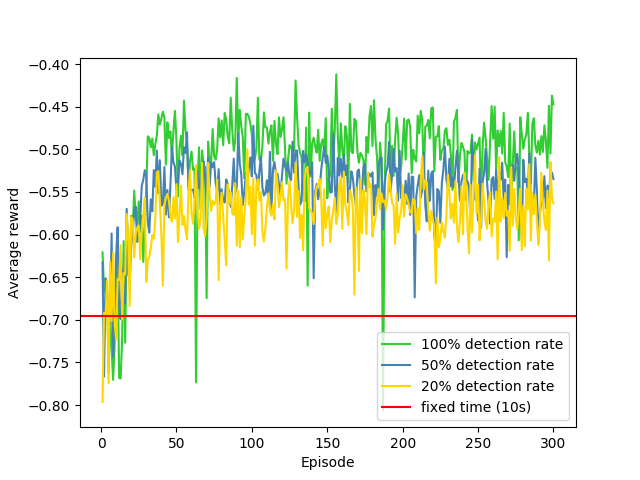
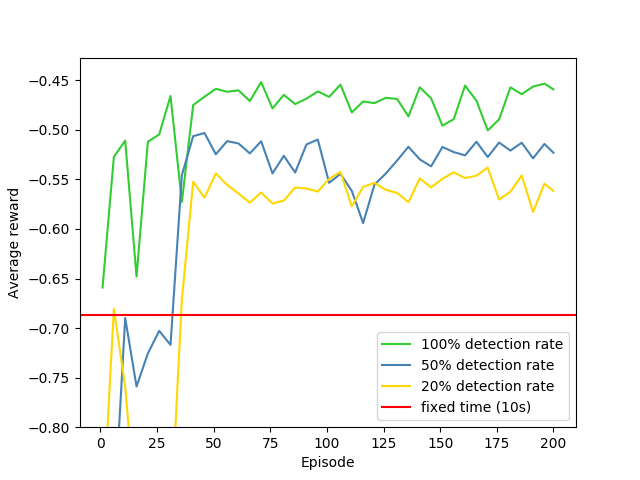
plotting changes

diff --git a/plot.py b/plot.py
@@ -1,6 +1,7 @@
 import matplotlib.pyplot as plt
 import pickle
 import tensorflow as tf
+import numpy as np
 
 if __name__ == "__main__":
     '''baseline_name = "hor1over30_ver1over60"
@@ -35,66 +36,122 @@ if __name__ == "__main__":
     waiting_times1 = []
     waiting_times2 = []
     waiting_times3 = []
+    rewards1_dev = []
+    rewards2_dev = []
+    rewards3_dev = []
+    waiting_times1_dev = []
+    waiting_times2_dev = []
+    waiting_times3_dev = []
     baseline_r = 0
     baseline_w = 0
+    baseline_r_dev = 0
+    baseline_w_dev = 0
+
+    figure_name = "horizontal_boltz_30_60"
 
     # 100% detection rate
     for event in tf.compat.v1.train.summary_iterator(
-            "runs/model_100_low/events.out.tfevents.1585155365.PC-CYRIL-LINUX.6284.0"):
+            "runs/model_boltz_hor_30_60_100/events.out.tfevents.1585431026.alan-compute-04.12904.0"):
         for value in event.summary.value:
             if value.tag == "Average_reward":
                 episodes.append(event.step)
                 rewards1.append(value.simple_value)
             elif value.tag == "Average_waiting_time":
                 waiting_times1.append(value.simple_value)
+            elif value.tag == "Reward_standard_deviation":
+                rewards1_dev.append(value.simple_value)
+            elif value.tag == "Waiting_time_standard_deviation":
+                waiting_times1_dev.append(value.simple_value)
 
     # 50% detection rate
     for event in tf.compat.v1.train.summary_iterator(
-            "runs/model_50_low/events.out.tfevents.1585168598.alan-compute-08.217244.0"):
+            "runs/model_boltz_hor_30_60_50/events.out.tfevents.1585458896.alan-compute-02.3965.0"):
         for value in event.summary.value:
             if value.tag == "Average_reward":
                 rewards2.append(value.simple_value)
             elif value.tag == "Average_waiting_time":
                 waiting_times2.append(value.simple_value)
+            elif value.tag == "Reward_standard_deviation":
+                rewards2_dev.append(value.simple_value)
+            elif value.tag == "Waiting_time_standard_deviation":
+                waiting_times2_dev.append(value.simple_value)
 
     # 20% detection rate
     for event in tf.compat.v1.train.summary_iterator(
-            "runs/model_20_low/events.out.tfevents.1585168567.alan-compute-07.215803.0"):
+            "runs/model_boltz_hor_30_60_20/events.out.tfevents.1585458910.alan-compute-02.4000.0"):
         for value in event.summary.value:
             if value.tag == "Average_reward":
                 rewards3.append(value.simple_value)
             elif value.tag == "Average_waiting_time":
                 waiting_times3.append(value.simple_value)
+            elif value.tag == "Reward_standard_deviation":
+                rewards3_dev.append(value.simple_value)
+            elif value.tag == "Waiting_time_standard_deviation":
+                waiting_times3_dev.append(value.simple_value)
 
     # baseline
     for event in tf.compat.v1.train.summary_iterator(
-            "runs/uniform_1over60_baseline/events.out.tfevents.1585171350.PC-CYRIL-LINUX.11892.0"):
+            "runs/hor1over30_ver1over60_baseline/events.out.tfevents.1585228860.PC-CYRIL-LINUX.25968.0"):
         for value in event.summary.value:
             if value.tag == "Average_reward":
                 baseline_r = value.simple_value
             elif value.tag == "Average_waiting_time":
                 baseline_w = value.simple_value
+            elif value.tag == "Reward_standard_deviation":
+                baseline_r_dev = value.simple_value
+            elif value.tag == "Waiting_time_standard_deviation":
+                baseline_w_dev = value.simple_value
 
     plt.figure()
+    plt.grid()
     plt.plot(episodes, rewards1, color="limegreen", label="100% detection rate")
+    plt.errorbar(episodes, rewards1, yerr=rewards1_dev, color="limegreen", elinewidth=3, alpha=0.4)
     plt.plot(episodes, rewards2, color="steelblue", label="50% detection rate")
+    plt.errorbar(episodes, rewards2, yerr=rewards2_dev, color="steelblue", elinewidth=3, alpha=0.4)
     plt.plot(episodes, rewards3, color="gold", label="20% detection rate")
+    plt.errorbar(episodes, rewards3, yerr=rewards3_dev, color="gold", elinewidth=3, alpha=0.4)
     plt.axhline(y=baseline_r, color="r", label="fixed time (10s)")
-    plt.ylim(bottom=-0.6)
     plt.xlabel("Episode")
     plt.ylabel("Average reward")
     plt.legend()
-    # plt.savefig("figures/" + figure_name + "_r.png")
+    plt.savefig("figures/" + figure_name + "_r.png")
     plt.show()
 
     plt.figure()
+    plt.grid()
     plt.plot(episodes, waiting_times1, color="limegreen", label="100% detection rate")
+    plt.errorbar(episodes, waiting_times1, yerr=waiting_times1_dev, color="limegreen", elinewidth=3, alpha=0.4)
     plt.plot(episodes, waiting_times2, color="steelblue", label="50% detection rate")
+    plt.errorbar(episodes, waiting_times2, yerr=waiting_times2_dev, color="steelblue", elinewidth=3, alpha=0.4)
     plt.plot(episodes, waiting_times3, color="gold", label="20% detection rate")
+    plt.errorbar(episodes, waiting_times3, yerr=waiting_times3_dev, color="gold", elinewidth=3, alpha=0.4)
     plt.axhline(y=baseline_w, color="r", label="fixed time (10s)")
-    plt.ylim(bottom=1.0, top=8.0)
     plt.xlabel("Episode")
     plt.ylabel("Average waiting time (s)")
     plt.legend()
-    # plt.savefig("figures/" + figure_name + "_w.png")
+    plt.savefig("figures/" + figure_name + "_w.png")
     plt.show()
+
+    '''plt.figure()
+    plt.plot(episodes, rewards1_dev, color="limegreen", label="100% detection rate")
+    plt.plot(episodes, rewards2_dev, color="steelblue", label="50% detection rate")
+    plt.plot(episodes, rewards3_dev, color="gold", label="20% detection rate")
+    plt.axhline(y=baseline_r_dev, color="r", label="fixed time (10s)")
+    plt.ylim(bottom=0.01, top=0.08)
+    plt.xlabel("Episode")
+    plt.ylabel("Reward standard deviation")
+    plt.legend()
+    plt.savefig("figures/" + figure_name + "_r_dev.png")
+    plt.show()
+
+    plt.figure()
+    plt.plot(episodes, waiting_times1_dev, color="limegreen", label="100% detection rate")
+    plt.plot(episodes, waiting_times2_dev, color="steelblue", label="50% detection rate")
+    plt.plot(episodes, waiting_times3_dev, color="gold", label="20% detection rate")
+    plt.axhline(y=baseline_w_dev, color="r", label="fixed time (10s)")
+    plt.ylim(bottom=0.0, top=8.0)
+    plt.xlabel("Episode")
+    plt.ylabel("Waiting time standard deviation")
+    plt.legend()
+    plt.savefig("figures/" + figure_name + "_w_dev.png")
+    plt.show()'''

diff --git a/run.py b/run.py
@@ -55,8 +55,8 @@ def test_agent(sim, tb, nb_ep_test, nb_ep_steps, det_rate, route_prob, hour_day,
 
 
 if __name__ == "__main__":
-    # h_probs = None
-    h_probs = [[0.0003 / 3] * 3 + [0.0011 / 3] * 3 + [0.0015 / 3] * 3 + [0.0029 / 3] * 3,
+    h_probs = None
+    '''h_probs = [[0.0003 / 3] * 3 + [0.0011 / 3] * 3 + [0.0015 / 3] * 3 + [0.0029 / 3] * 3,
                [0.0005 / 3] * 3 + [0.002 / 3] * 3 + [0.0016 / 3] * 3 + [0.002 / 3] * 3,
                [0.0005 / 3] * 3 + [0.0019 / 3] * 3 + [0.0018 / 3] * 3 + [0.0027 / 3] * 3,
                [0.0003 / 3] * 3 + [0.0024 / 3] * 3 + [0.0016 / 3] * 3 + [0.0023 / 3] * 3,
@@ -79,16 +79,16 @@ if __name__ == "__main__":
                [0.0087 / 3] * 3 + [0.0363 / 3] * 3 + [0.0328 / 3] * 3 + [0.0387 / 3] * 3,
                [0.0063 / 3] * 3 + [0.0224 / 3] * 3 + [0.0259 / 3] * 3 + [0.0271 / 3] * 3,
                [0.0044 / 3] * 3 + [0.0183 / 3] * 3 + [0.0165 / 3] * 3 + [0.0274 / 3] * 3,
-               [0.0037 / 3] * 3 + [0.0171 / 3] * 3 + [0.0196 / 3] * 3 + [0.0256 / 3] * 3]
+               [0.0037 / 3] * 3 + [0.0171 / 3] * 3 + [0.0196 / 3] * 3 + [0.0256 / 3] * 3]'''
 
-    mem_size = 1000000
-    nb_init = 100000  # Number of samples in the replay buffer before learning starts
+    mem_size = 100000
+    nb_init = 10000  # Number of samples in the replay buffer before learning starts
     nb_inputs = 11
     nb_actions = 2  # Either stay at current phase or switch to the next one
-    nb_episodes = 200
+    nb_episodes = 1000
     nb_episodes_test = 30
     nb_episodes_between_tests = 5
-    nb_episode_steps = 86400
+    nb_episode_steps = 3000
     detection_rate = 1.0  # Percentage of vehicles that can be detected by the algorithm
     gui = False
     alpha = 0.0001
@@ -102,16 +102,15 @@ if __name__ == "__main__":
     decay_steps_temp = 100000
     batch_size = 32
     target_update_frequency = 3000
-    hour_of_the_day = 0
+    hour_of_the_day = 8
     # Probability for a car to be generated on a particular route at a certain step
-    route_probabilities = [1. / 60] * 12
-    gen_name = "model_real_100"
+    route_probabilities = [1. / 30] * 12
+    gen_name = "model_100_high_1000it"
     file_name = gen_name + ".pt"
-    doTesting = False
+    doTesting = True
 
     print("LEARNING " + gen_name)
 
-    writer = None
     if doTesting:
         writer = SummaryWriter(log_dir="runs/" + gen_name)
 

diff --git a/lux_sim.py b/lux_sim.py
@@ -15,10 +15,10 @@ else:
 from sumolib import checkBinary  # Checks for the binary in environ vars
 
 # For parallel use uncomment first line, for GUI use uncomment second line
-import libsumo as traci
+# import libsumo as traci
 
 
-# import traci
+import traci
 
 
 def get_options():

diff --git a/real_testing.py b/real_testing.py
@@ -1,7 +1,7 @@
 import lux_sim as sim
 
 if __name__ == "__main__":
-    simulator = sim.LuxSim()
+    simulator = sim.LuxSim(True)
     simulator.start_sim()
     while simulator.step():
         pass
